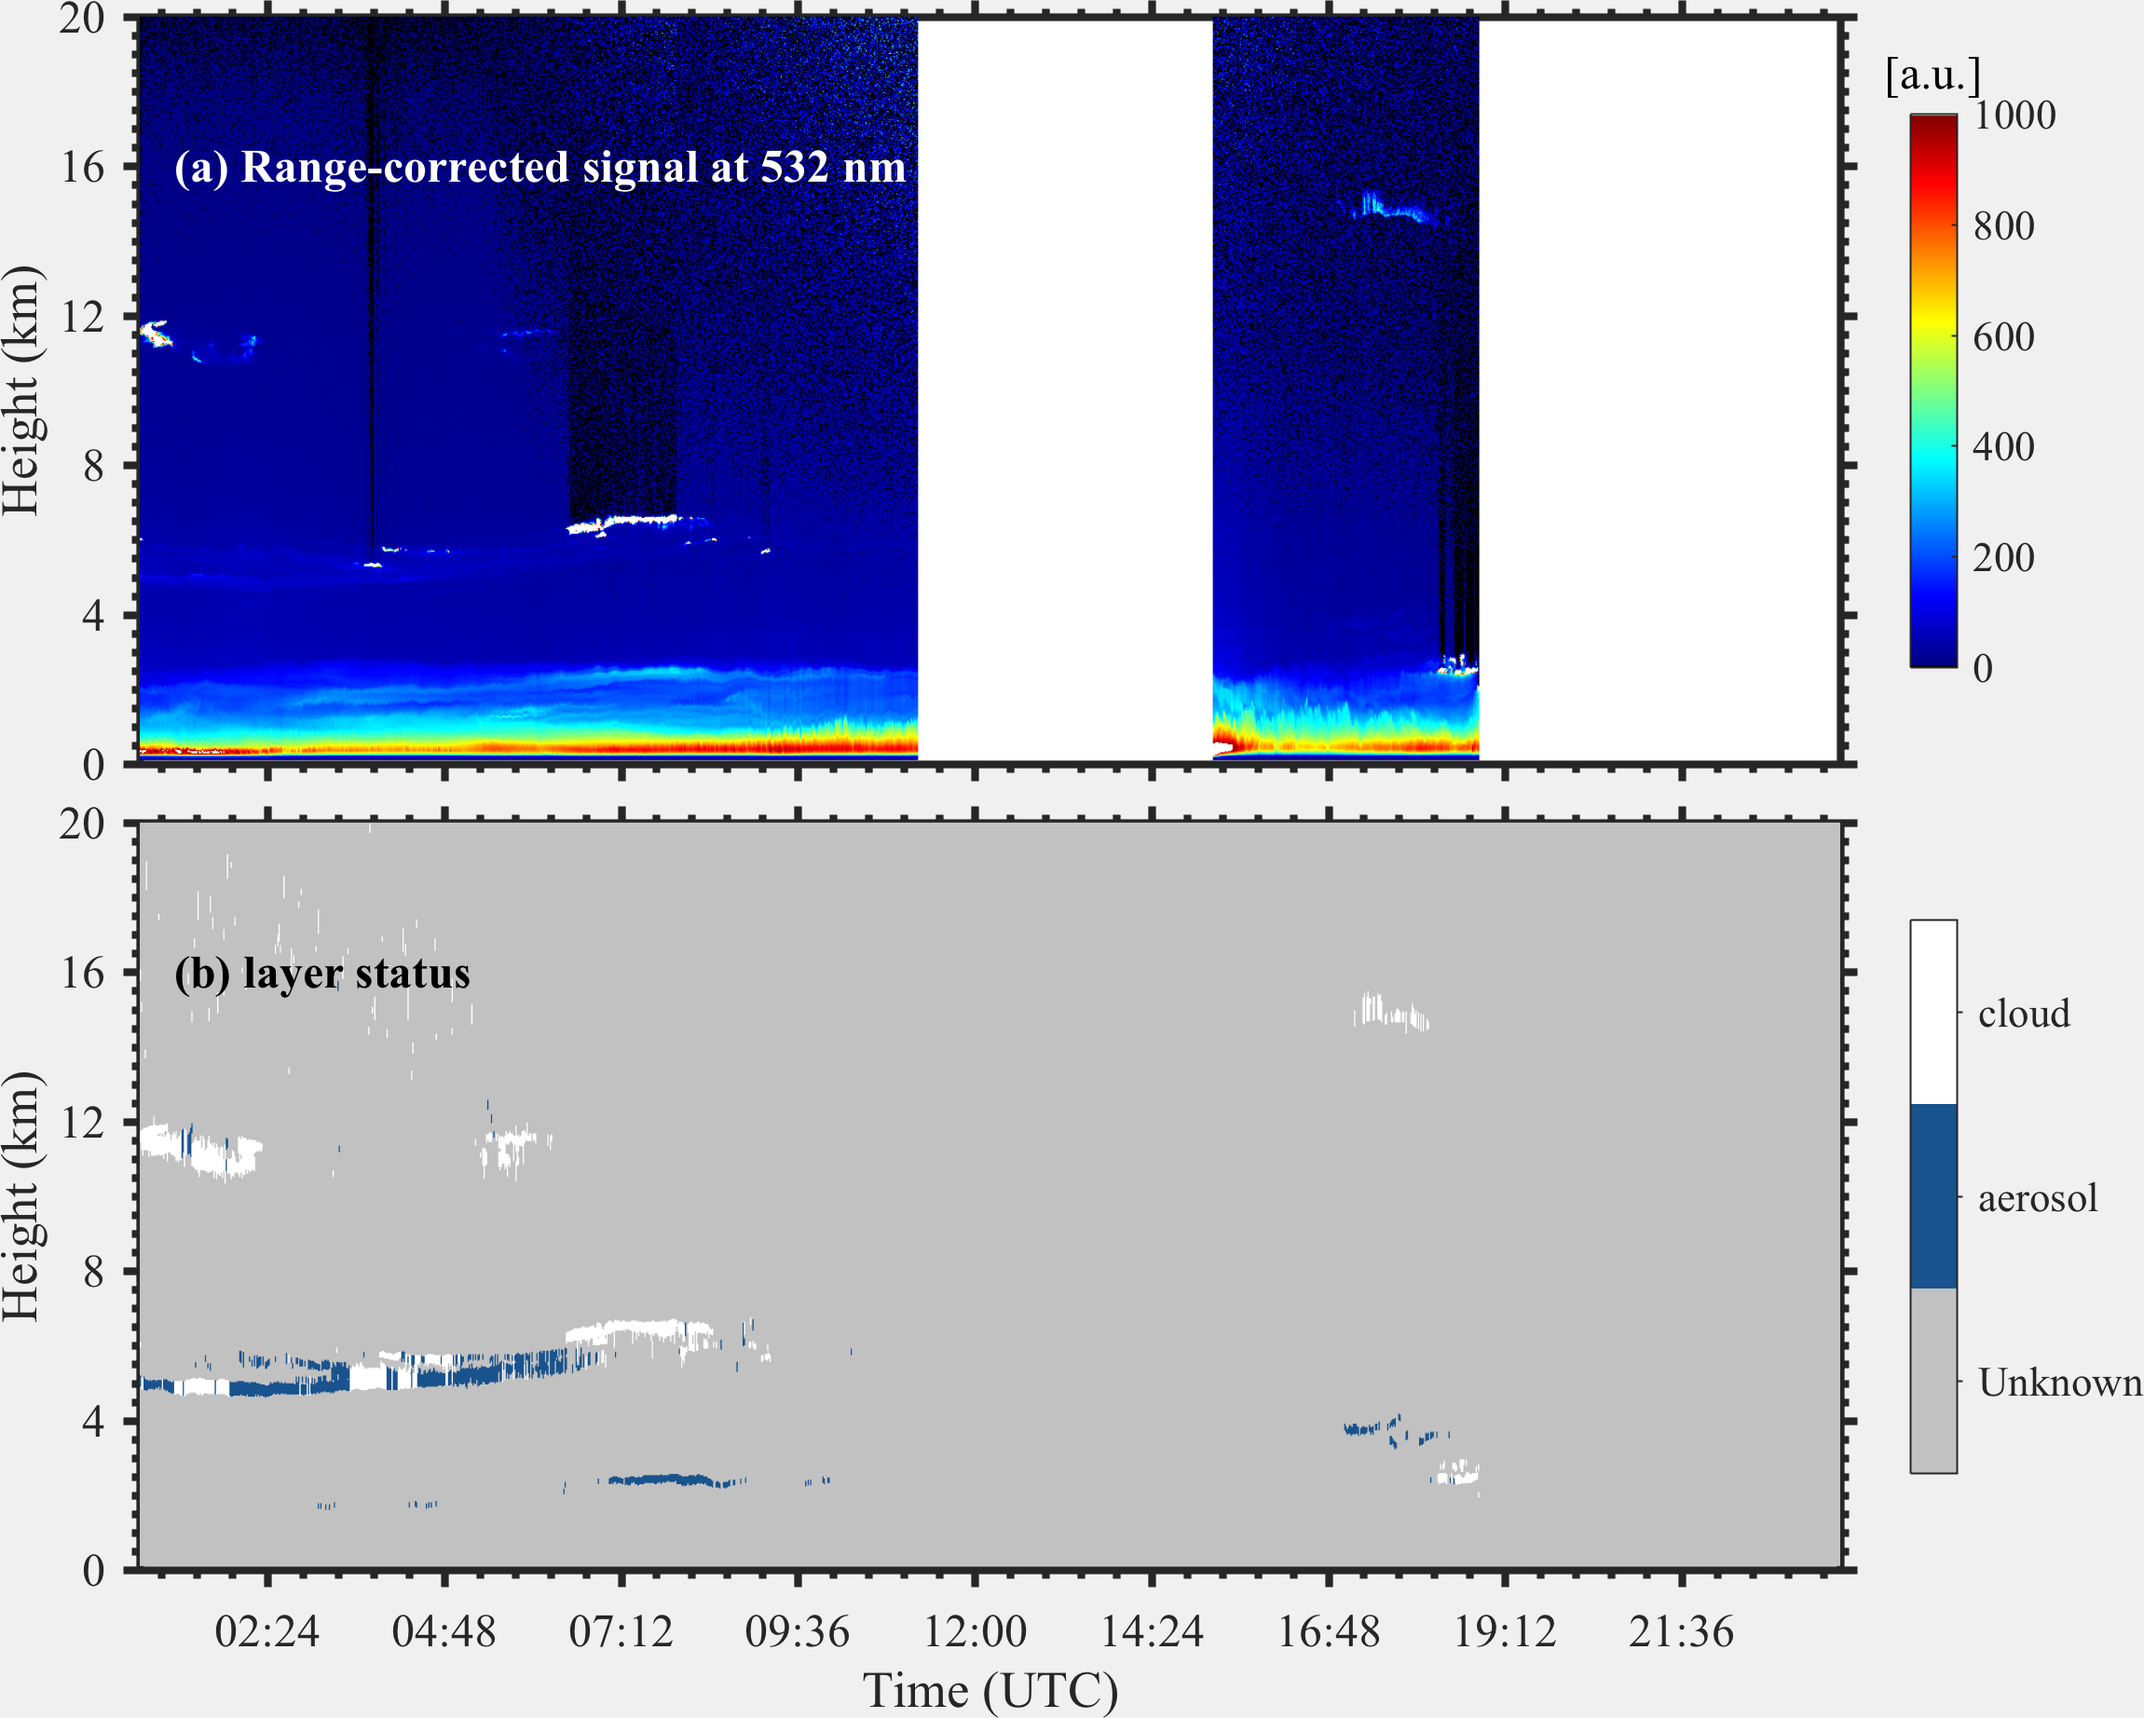
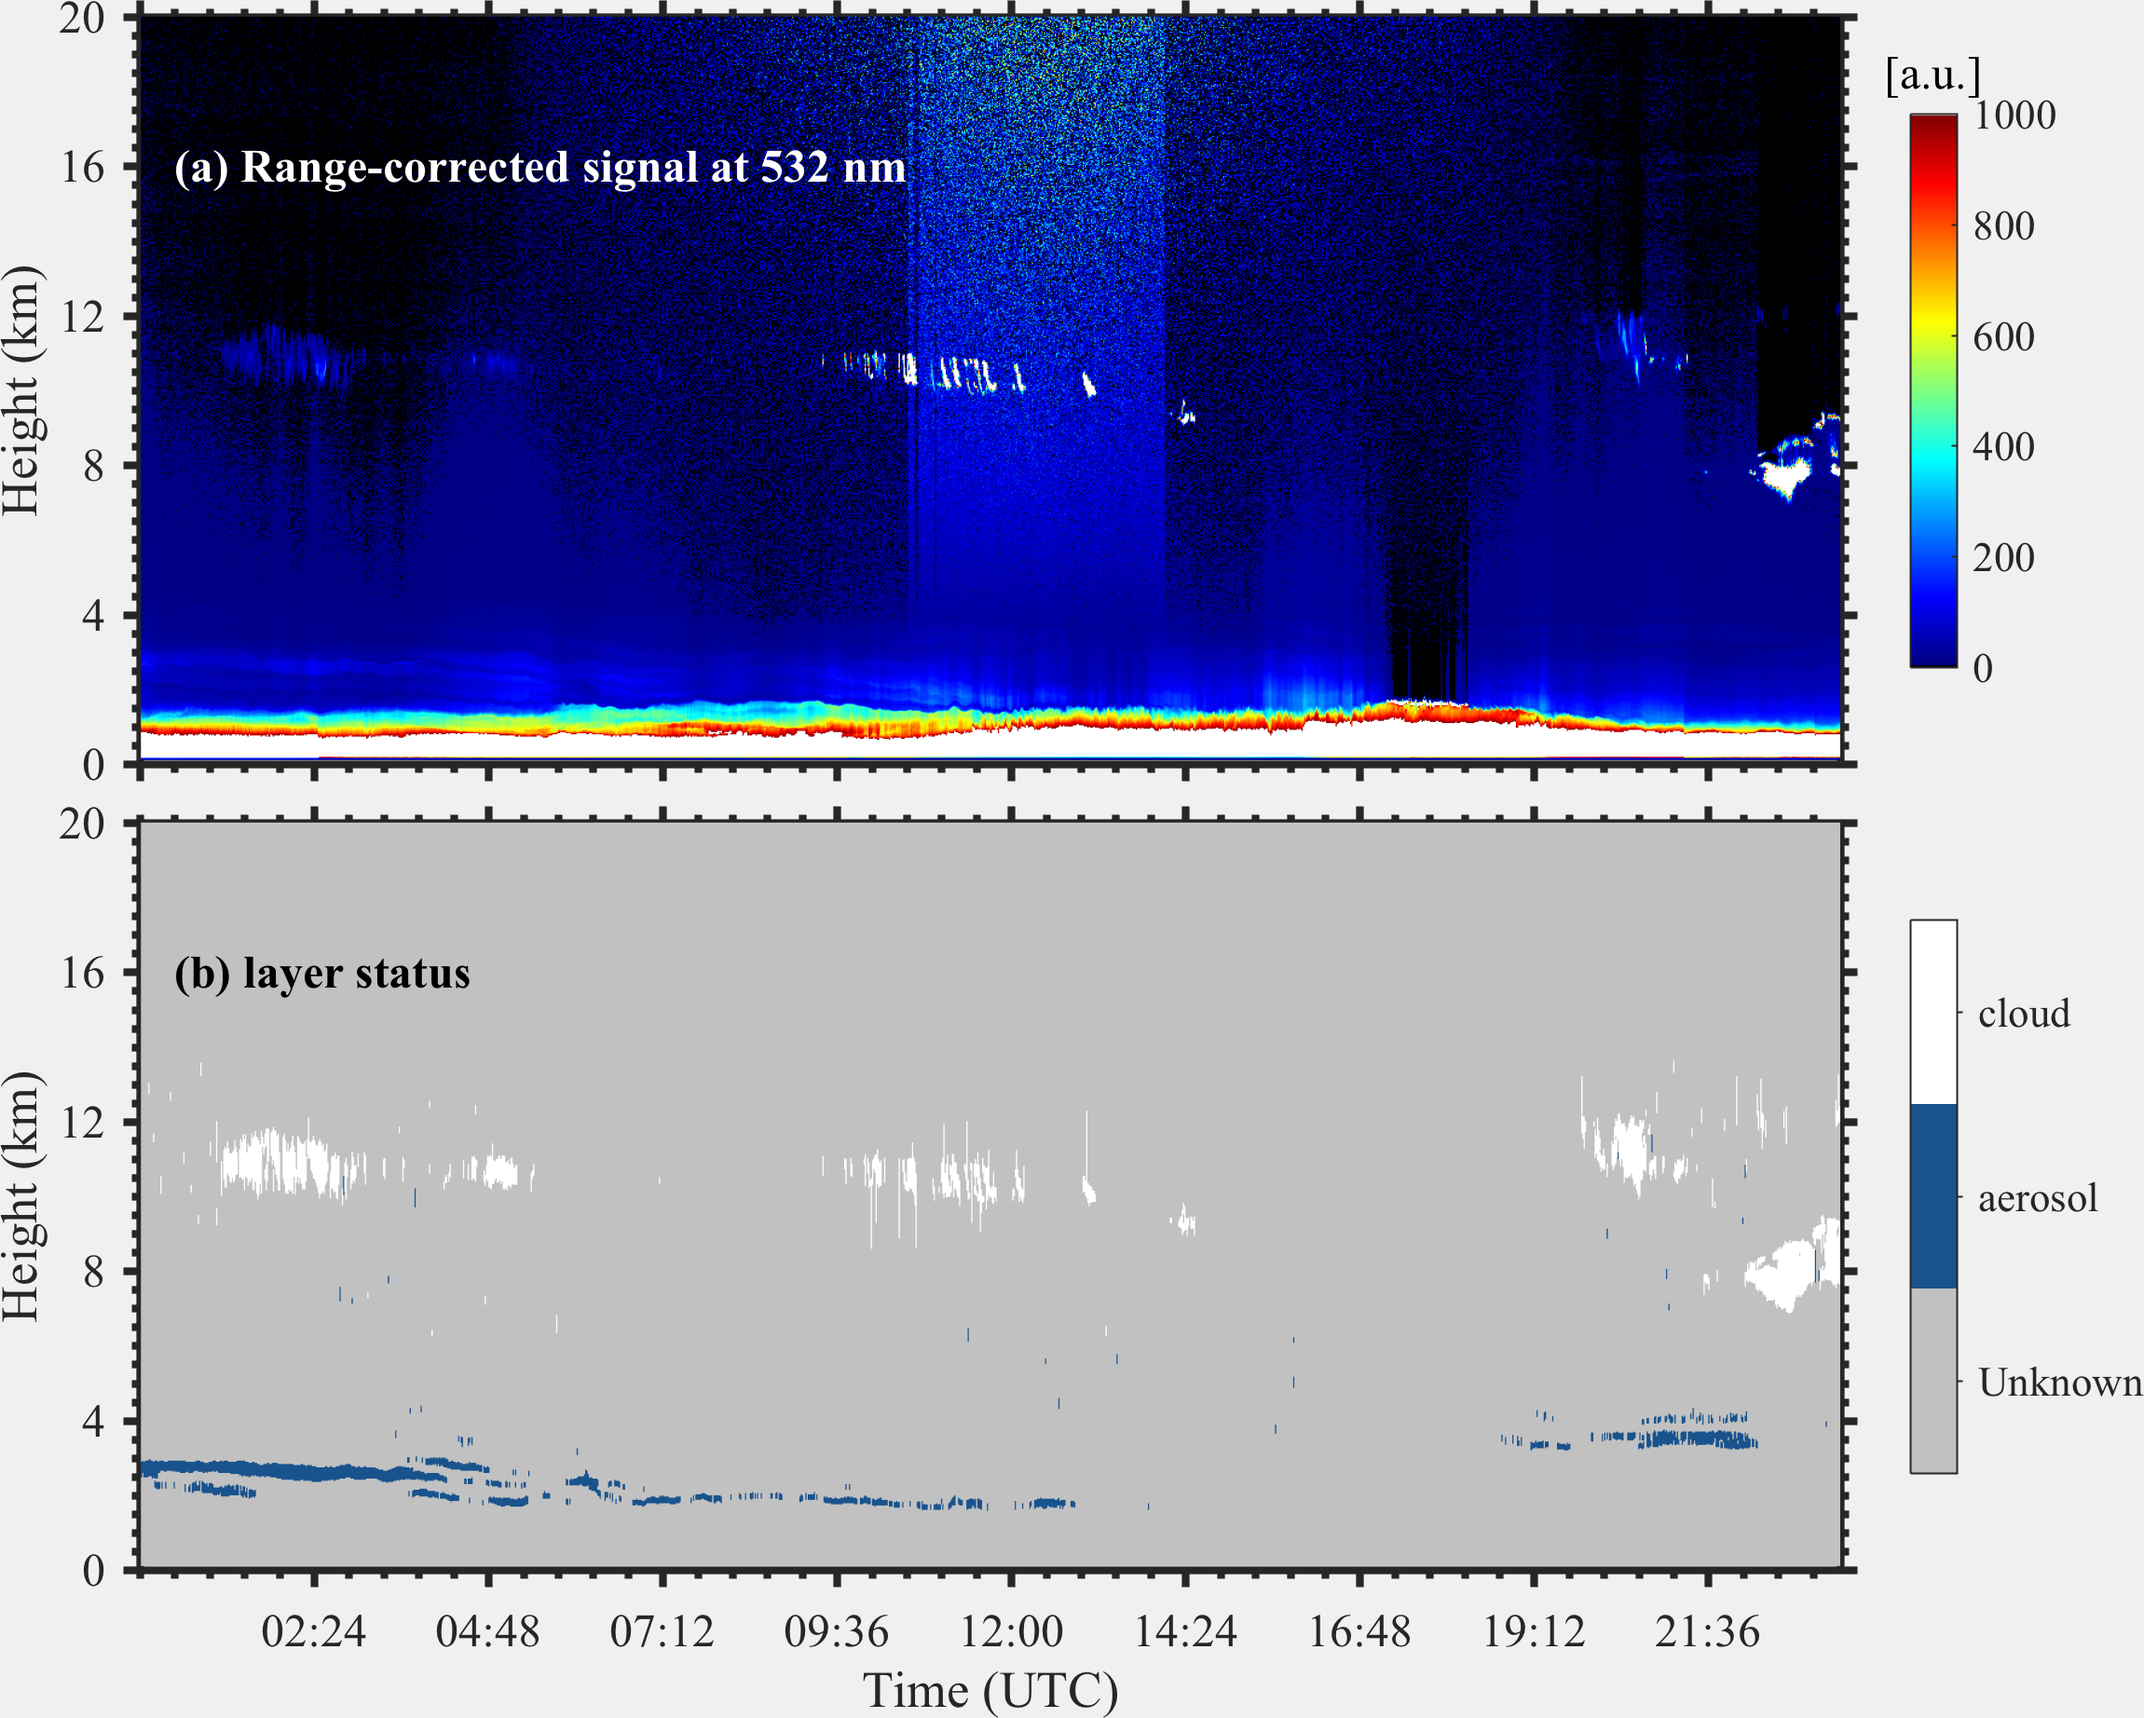
update VDE thresholds

diff --git a/lib/basename.m b/lib/basename.m
@@ -1,0 +1,23 @@
+function [basename] = basename(fileFullpath)
+%BASENAME cut the basename from the file fullpath. 
+%   Example:
+%       [basename] = basename(fileFullpath)
+%   Inputs:
+%       fileFullpath: char
+%           fullpath.
+%   Outputs:
+%       basename: char
+%           basename of the file
+%   History:
+%       2018-08-22. First edition by Zhenping
+%   Contact:
+%       zhenping@tropos.de
+
+if ~ ischar(fileFullpath)
+    error('Input filename should be a char array');
+end
+
+parts = strsplit(fileFullpath, filesep);
+basename = parts{end};
+
+end

diff --git a/tests/VDE_layer_detection.m b/tests/VDE_layer_detection.m
@@ -7,8 +7,7 @@ addpath(libDir)
 addincludepath;
 
 %% initialization
-% meteorFile = fullfile(projectDir, 'data', 'radiosonde_57494_20140101_0000.nc');
-tRange = [datenum(2013, 8, 1, 0, 40, 0), datenum(2013, 8, 1, 23, 45, 0)];
+tRange = [datenum(2011, 6, 26, 0, 0, 0), datenum(2011, 6, 26, 23, 25, 0)];
 hRange = [0, 20];
 dataFile = fullfile(projectDir, 'data', sprintf('MUA_PLidar_%s.h5', datestr(tRange(1), 'yyyymmdd')));
 figFile = fullfile(projectDir, 'img', sprintf('VDE_layer_detection.png'));
